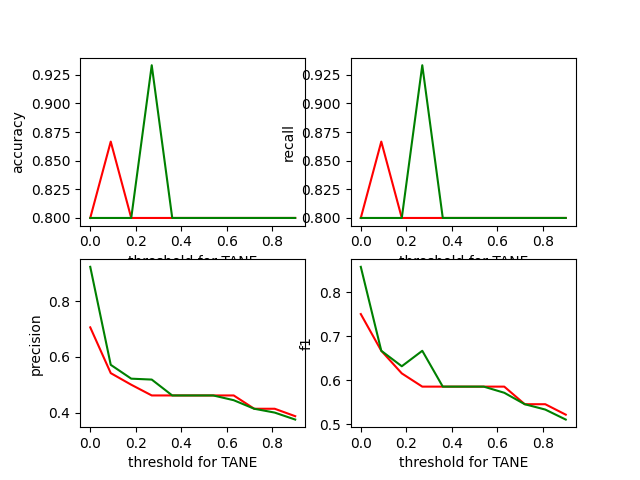
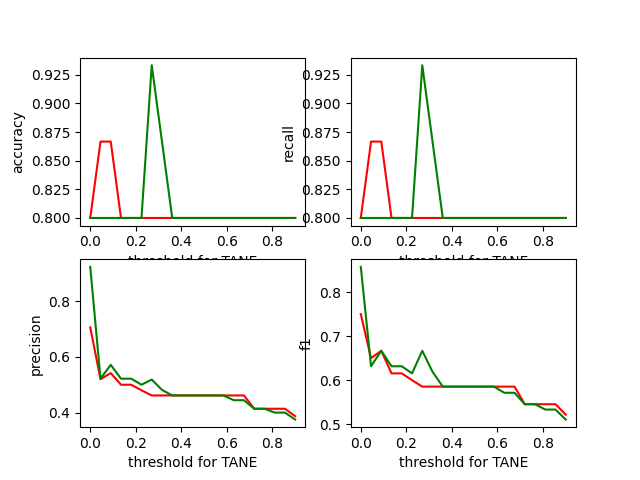
update 20 points [0,0.9]

diff --git a/main.py b/main.py
@@ -143,8 +143,8 @@ def main1():
 
 def main():
     er_tane = [0.0]
-    for i in range(1, 11):
-        er_tane.append(er_tane[i - 1] + 0.9 / 10)
+    for i in range(1, 21):
+        er_tane.append(er_tane[i - 1] + 0.9 / 20)
     print(er_tane)
     # er_tane = list(np.linspace(0, 0.875, num=6))
     # list_of_fd_gt = CONF['rules_gt_restaurant']
